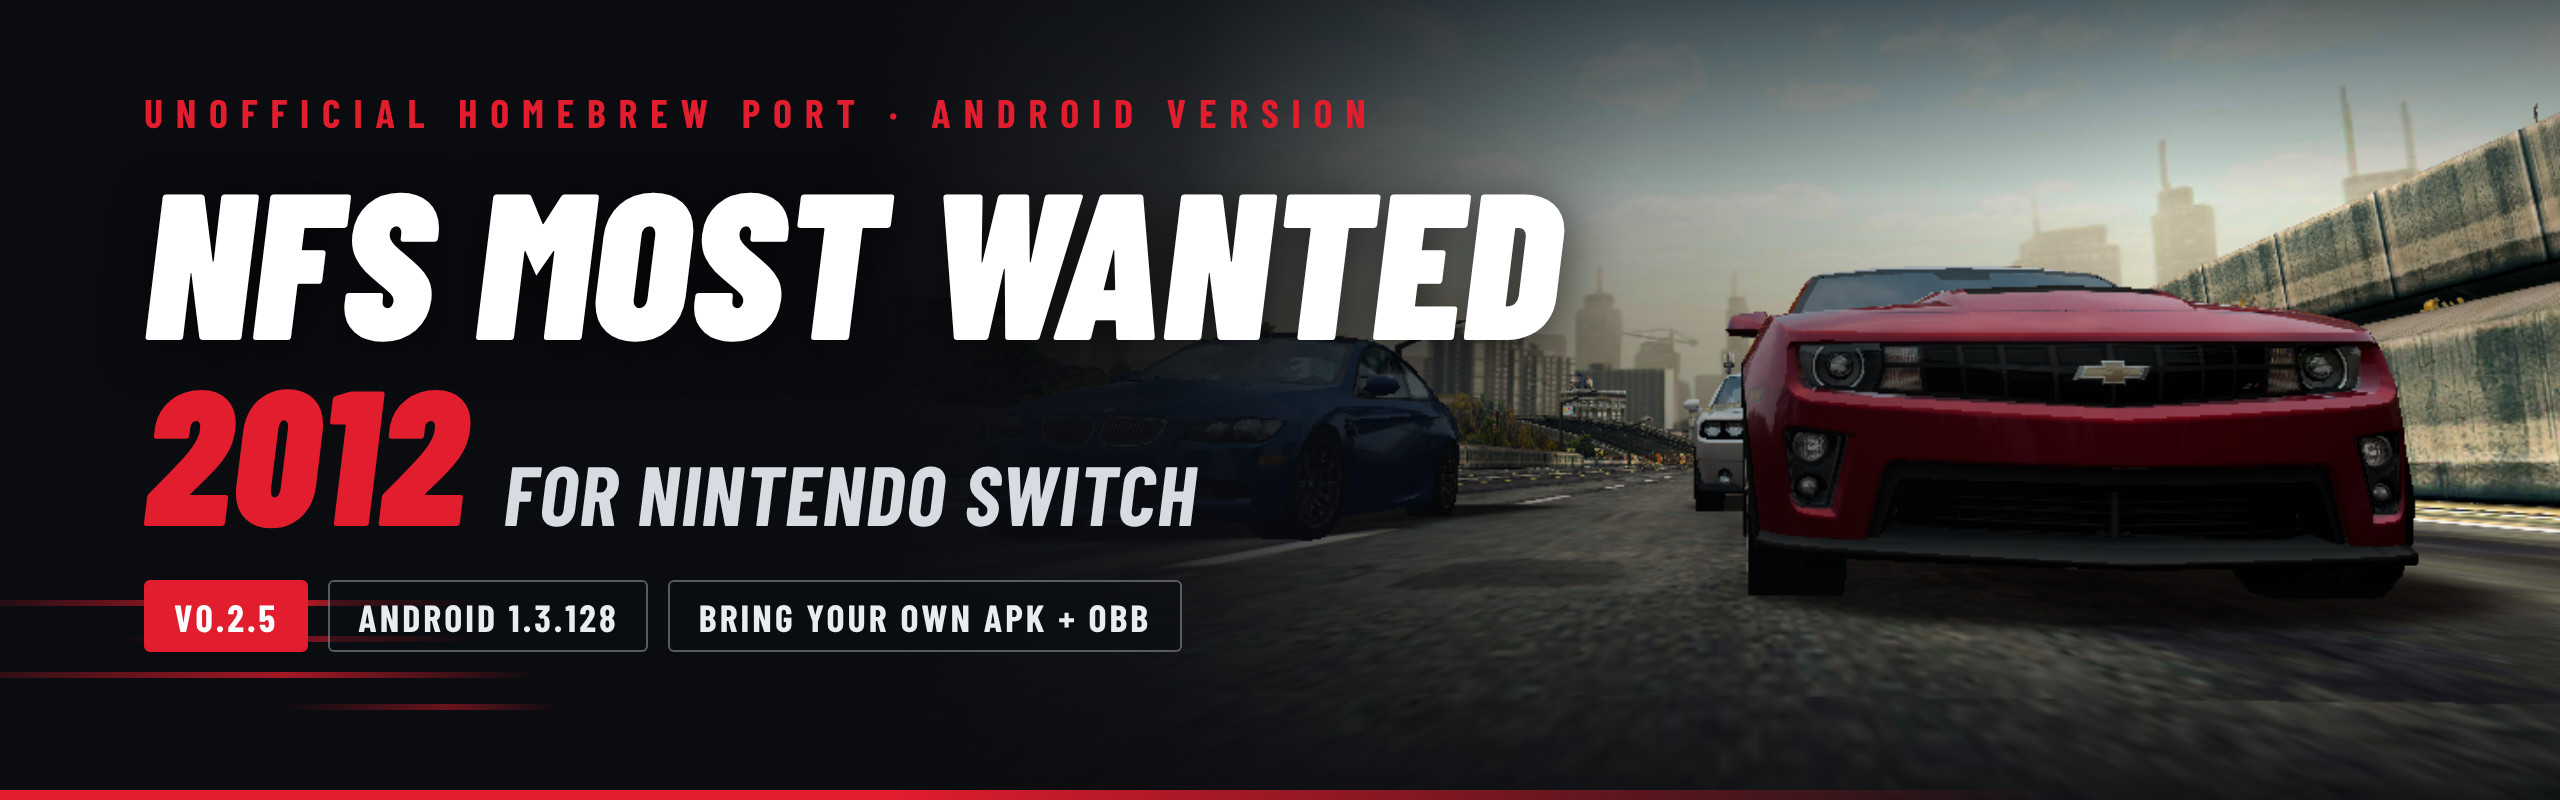
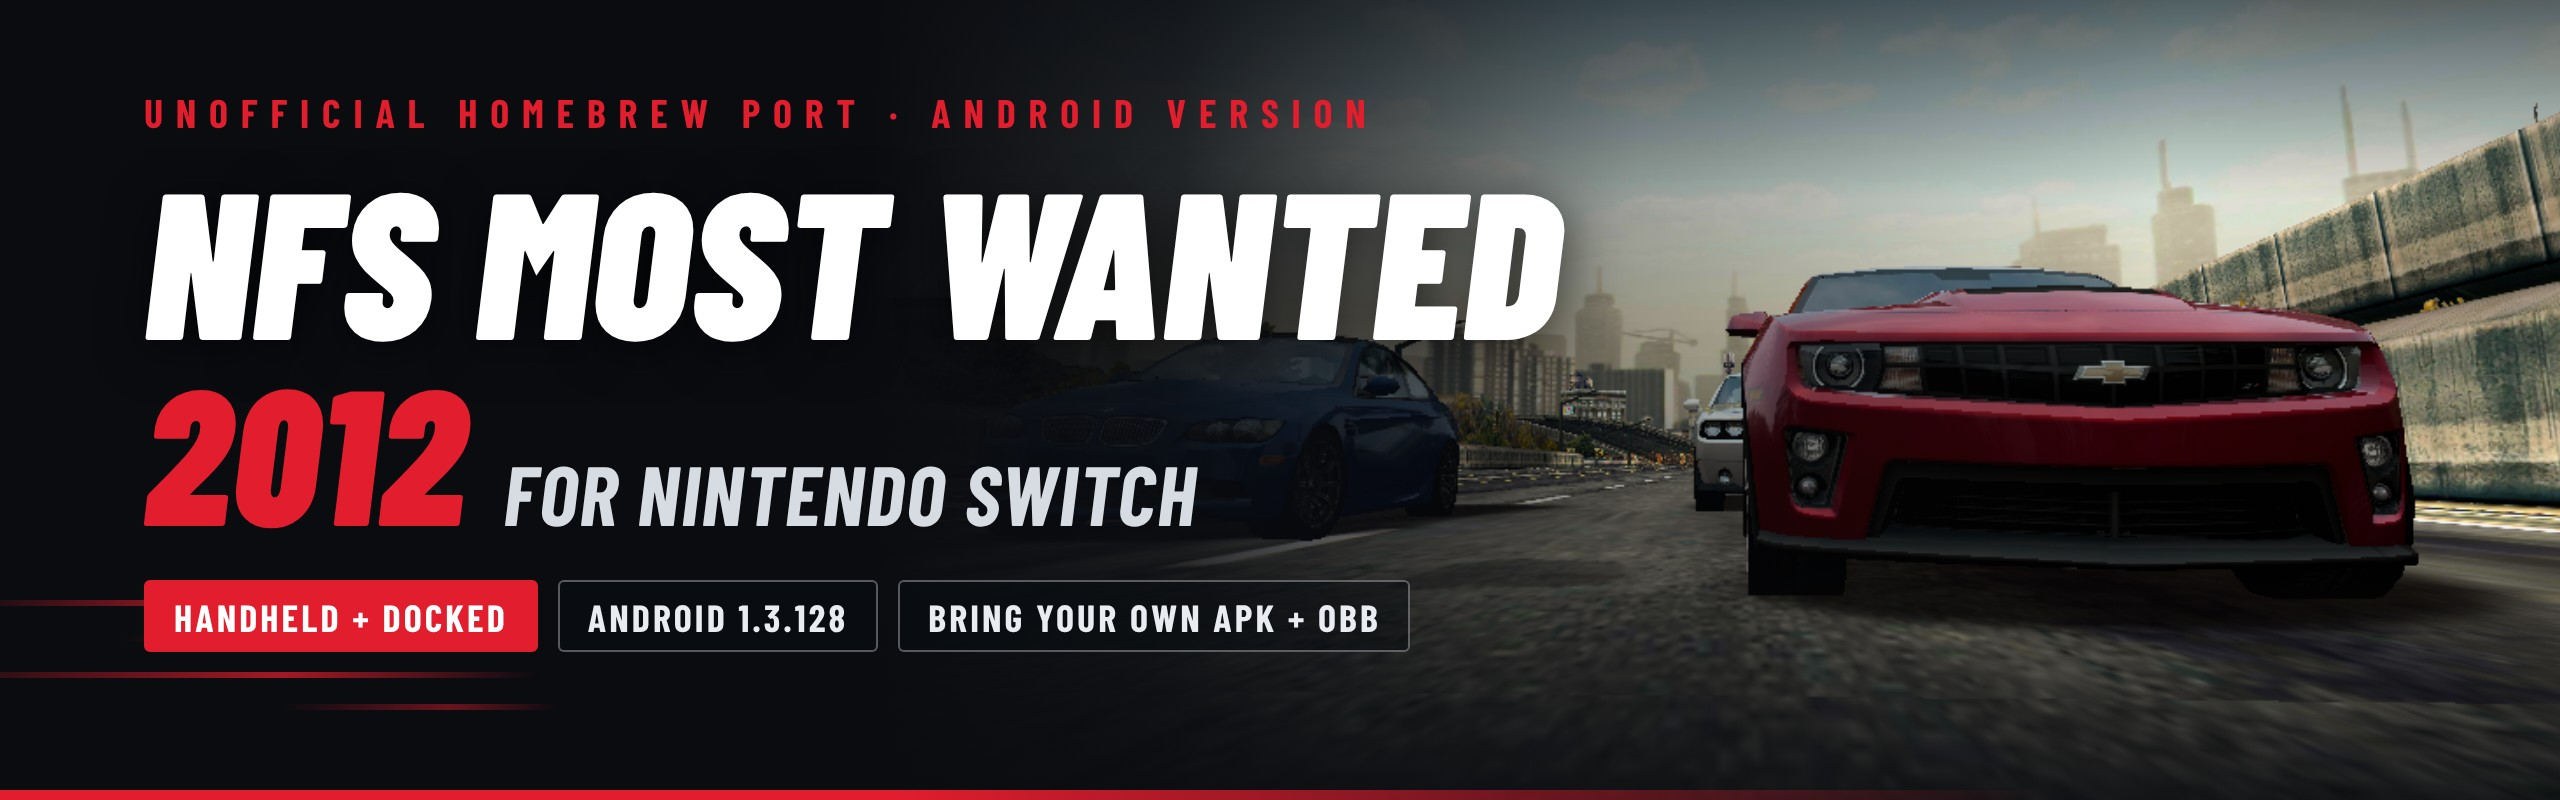
README: a race clip, more pictures, testers wanted; map + label centred
- Screenshots: a few seconds of a race (docs/images/race.gif, recorded
  frame by frame on the PC test build with a fixed 1/30 s clock; the
  caption says it is not the console's frame rate), a docked 1920x1080
  race, the map with + for EasyDrive, the port's debug menu.
- A "Help wanted: testers" section (docking, frame rate, reflections,
  languages) and the Switch models in "What you need". Both languages.
- The banner and social preview say "Handheld + docked" instead of an
  old version number.
- Map: the EasyDrive button's label, now "+", sits in the middle of the
  round button in the larger font (layouts entry 1855/1856).
- Desktop recording aids: NFSMW_RECORD_FPS (a clock that advances a
  fixed step per frame; not in the Switch build) and NFSMW_SHOT_RANGE.

Claude-Session: https://claude.ai/code/session_01WYCbVYmZAV1nnGGifVMDuu

Changed region(s): [[0.0625, 0.7188, 0.5625, 0.8438], [0.0625, 0.125, 0.3438, 0.1562], [0.375, 0.125, 0.5312, 0.1562]]

diff --git a/src/hle/libc_misc.cpp b/src/hle/libc_misc.cpp
@@ -6,6 +6,7 @@
 #include <algorithm>
 #include <atomic>
 #include <chrono>
+#include <cstdlib>
 #include <ctime>
 #include <map>
 #include <mutex>
@@ -23,7 +24,40 @@ using mem::ptr;
 using mem::str;
 
 // ---- time -------------------------------------------------------------------
+// Desktop recording aid: NFSMW_RECORD_FPS=<n> gives the game a clock that
+// advances by exactly 1/n s per frame (hle::record_clock_frame), so that
+// frames captured one by one play back smoothly at n fps whatever the PC's
+// speed. Not in the Switch build.
+#if !defined(__SWITCH__)
+const long long g_record_step_ns = [] {
+    const char* e = std::getenv("NFSMW_RECORD_FPS");
+    return e && std::atoi(e) > 0 ? 1000000000ll / std::atoi(e) : 0ll;
+}();
+std::atomic<long long> g_record_ns{0};
+struct timespec g_record_base_mono, g_record_base_real;
+const bool g_record_init = [] {
+    ::clock_gettime(CLOCK_MONOTONIC, &g_record_base_mono);
+    ::clock_gettime(CLOCK_REALTIME, &g_record_base_real);
+    return true;
+}();
+struct timespec record_time(const struct timespec& base) {
+    const long long ns = (long long)base.tv_nsec + g_record_ns.load(std::memory_order_relaxed);
+    struct timespec t;
+    t.tv_sec = base.tv_sec + (time_t)(ns / 1000000000ll);
+    t.tv_nsec = (long)(ns % 1000000000ll);
+    return t;
+}
+#else
+constexpr long long g_record_step_ns = 0;
+#endif
 s32 h_time(u32 t) {
+#if !defined(__SWITCH__)
+    if (g_record_step_ns) {
+        s32 now = (s32)record_time(g_record_base_real).tv_sec;
+        if (t) mem::w32(t, (u32)now);
+        return now;
+    }
+#endif
     s32 now = (s32)std::time(nullptr);
     if (t) mem::w32(t, (u32)now);
     return now;
@@ -31,6 +65,12 @@ s32 h_time(u32 t) {
 int h_gettimeofday(u32 tv, u32 tz) {
     struct timeval h;
     ::gettimeofday(&h, nullptr);
+#if !defined(__SWITCH__)
+    if (g_record_step_ns) {
+        const struct timespec r = record_time(g_record_base_real);
+        h.tv_sec = r.tv_sec, h.tv_usec = r.tv_nsec / 1000;
+    }
+#endif
     if (tv) {
         mem::w32(tv, (u32)h.tv_sec);
         mem::w32(tv + 4, (u32)h.tv_usec);
@@ -47,6 +87,9 @@ int h_clock_gettime(int clk, u32 ts) {
         LOGI("clock_gettime: game uses clock id %d (lr %s)", clk, elf::describe(cpu::current().regs()[14]).c_str());
     struct timespec h;
     if (::clock_gettime(clk, &h) < 0) ::clock_gettime(CLOCK_MONOTONIC, &h);
+#if !defined(__SWITCH__)
+    if (g_record_step_ns) h = record_time(clk == CLOCK_REALTIME ? g_record_base_real : g_record_base_mono);
+#endif
     mem::w32(ts, (u32)h.tv_sec);
     mem::w32(ts + 4, (u32)h.tv_nsec);
     return 0;
@@ -544,6 +587,12 @@ void register_libc_misc() {
     // setjmp family lives in the ARM runtime blob
     for (const char* n : {"setjmp", "_setjmp", "sigsetjmp"}) thunks::add_data(n, mem::RT_SETJMP);
     for (const char* n : {"longjmp", "_longjmp", "siglongjmp"}) thunks::add_data(n, mem::RT_LONGJMP);
+}
+
+void record_clock_frame() {
+#if !defined(__SWITCH__)
+    if (g_record_step_ns) g_record_ns.fetch_add(g_record_step_ns, std::memory_order_relaxed);
+#endif
 }
 
 }  // namespace hle

diff --git a/src/main.cpp b/src/main.cpp
@@ -416,7 +416,15 @@ int main(int argc, char** argv) {
             hle::glq::sync([&] { platform::gl_screenshot(shot); });
             LOGI("control: frame %d -> %s", frame, shot.c_str());
         }
-        if (S.screenshot_every && frame % S.screenshot_every == 0) {
+        // Desktop: NFSMW_SHOT_RANGE=<from>:<to> limits --screenshot-every to those frames.
+        static const std::pair<int, int> shot_range = [] {
+            int a = 0, b = 1 << 30;
+            if (const char* e = std::getenv("NFSMW_SHOT_RANGE")) std::sscanf(e, "%d:%d", &a, &b);
+            return std::make_pair(a, b);
+        }();
+        hle::record_clock_frame();
+        if (S.screenshot_every && frame % S.screenshot_every == 0 && frame >= shot_range.first &&
+            frame <= shot_range.second) {
             char path[256];
             std::snprintf(path, sizeof path, "%s/frame_%05d.png", S.screenshot_dir.c_str(), frame);
             hle::glq::sync([&] { platform::gl_screenshot(path); });

diff --git a/src/game/obb_patch.cpp b/src/game/obb_patch.cpp
@@ -260,6 +260,12 @@ std::vector<Edit> layout_edits() {
     e.push_back({14827, 2, 2, kGuideLeft2, kGuideLeft});
     move_rect(e, 14757, -129, 76, -129, 76, -12, -66, -12, -66);
     e.push_back({14758, 2, 4, kHalignRight, kHalignCentre});
+    // The map's EasyDrive button: its label, now "+" instead of "START", in
+    // the larger font and moved right, to the middle of the round button
+    // ("START" filled it from its left edge).
+    constexpr u32 kFontBlack8 = 321, kFontBlack12 = 146;  // string ids: mw_black_8 / _12
+    move_rect(e, 1855, 6, 18, 39, 28, 19, 18, 52, 28);
+    e.push_back({1856, 10, 2, kFontBlack8, kFontBlack12});
     return e;
 }
 

diff --git a/src/hle/hle.h b/src/hle/hle.h
@@ -59,6 +59,8 @@ void gl_set_scene_scale(float s);
 // The real screen's size when it differs from the game's (docked / undocked
 // while playing): everything the game draws is scaled to it.
 void gl_set_output_size(int w, int h);
+// Desktop recording aid (NFSMW_RECORD_FPS, see libc_misc.cpp): once per frame.
+void record_clock_frame();
 float gl_output_scale();  // real screen / game screen (1 = the size the game started with)
 // Replace part of a texture with RGBA pixels (bottom row first, as GL reads
 // them); the texture bound before stays bound. Copies the pixels; call from

diff --git a/README.es.md b/README.es.md
@@ -44,6 +44,13 @@ en una carpeta y corre por Fairhaven, en modo portátil o en el dock.
 
 ## Capturas
 
+<p align="center">
+  <img src="docs/images/race.gif" alt="Unos segundos de una carrera: adelantando rumbo al primer lugar" width="720">
+</p>
+<p align="center"><sub>Unos segundos de una carrera, grabados cuadro por cuadro con la versión de prueba para PC
+del port, a la resolución portátil de la Switch. Muestra cómo se ve el juego, no los FPS de la
+consola.</sub></p>
+
 <table>
   <tr>
     <td width="50%"><img src="docs/images/screenshots/race-intro.jpg" alt="La presentación de una carrera"></td>
@@ -54,26 +61,35 @@ en una carpeta y corre por Fairhaven, en modo portátil o en el dock.
     <td align="center"><sub>Corriendo por Fairhaven con el control</sub></td>
   </tr>
   <tr>
-    <td><img src="docs/images/screenshots/map.jpg" alt="El mapa con el resaltado del control sobre un evento"></td>
+    <td><img src="docs/images/screenshots/race-docked-1080p.jpg" alt="Una carrera a 1920x1080, en el dock"></td>
+    <td><img src="docs/images/screenshots/map.jpg" alt="El mapa con el resaltado del control sobre un evento y + para EasyDrive"></td>
+  </tr>
+  <tr>
+    <td align="center"><sub>En el dock: la carrera a 1920×1080</sub></td>
+    <td align="center"><sub>El mapa: todos los menús funcionan con la cruceta, y + empieza el siguiente evento</sub></td>
+  </tr>
+  <tr>
     <td><img src="docs/images/screenshots/garage.jpg" alt="El garaje"></td>
-  </tr>
-  <tr>
-    <td align="center"><sub>Todos los menús funcionan con la cruceta, con un resaltado al estilo del juego</sub></td>
-    <td align="center"><sub>El garaje, con los botones indicados en pantalla</sub></td>
-  </tr>
-  <tr>
     <td><img src="docs/images/screenshots/showroom.jpg" alt="Un auto en la sala de exhibición 3D"></td>
-    <td><img src="docs/images/screenshots/pause-menu.jpg" alt="El menú de pausa durante una carrera"></td>
   </tr>
   <tr>
+    <td align="center"><sub>El garaje, con los botones indicados en pantalla</sub></td>
     <td align="center"><sub>La sala de exhibición de autos en 3D</sub></td>
+  </tr>
+  <tr>
+    <td><img src="docs/images/screenshots/pause-menu.jpg" alt="El menú de pausa durante una carrera"></td>
+    <td><img src="docs/images/screenshots/debug-menu.jpg" alt="El menú de depuración del port sobre el mapa"></td>
+  </tr>
+  <tr>
     <td align="center"><sub>El menú de pausa, en plena carrera</sub></td>
+    <td align="center"><sub>El menú de depuración del port (ZL + ZR + Menos): FPS, VSync, resolución 3D, relojes, sonido</sub></td>
   </tr>
 </table>
 
-<sub>Capturadas con la versión de prueba para PC del port, que ejecuta el mismo código del juego a la
-resolución portátil de la Switch (1280×720). El panel de la captura de carrera es el tutorial del
-propio juego para manejar con control.</sub>
+<sub>Capturadas con la versión de prueba para PC del port, que ejecuta el mismo código del juego a
+las resoluciones de la Switch (1280×720 en modo portátil, 1920×1080 en el dock). El panel de las
+capturas de carrera es el tutorial del propio juego para manejar con control. Más imágenes: las
+[páginas de controles](#controles).</sub>
 
 ## Características
 
@@ -112,7 +128,7 @@ propio juego para manejar con control.</sub>
 
 | | Qué |
 |---|---|
-| **Consola** | Una Nintendo Switch con [Atmosphère](https://github.com/Atmosphere-NX/Atmosphere) y el Homebrew Menu. Usa emuMMC y guarda un respaldo de tu tarjeta SD. |
+| **Consola** | Una Nintendo Switch, Switch OLED o Switch Lite con [Atmosphère](https://github.com/Atmosphere-NX/Atmosphere) y el Homebrew Menu. Usa emuMMC y guarda un respaldo de tu tarjeta SD. |
 | **Juego** | Tu propio *Need for Speed Most Wanted* para Android, versión **1.3.128**: el APK con la versión de 32 bits (`lib/armeabi-v7a`) y el OBB `main.1003128.com.ea.games.nfs13_row.obb` (unos 650 MB). También sirve un solo archivo `.xapk` con los dos. |
 | **Tarjeta SD** | Alrededor de 1 GB libre. |
 | **PC** | No hace falta. |
@@ -259,6 +275,21 @@ recta; unos 30° de inclinación es el giro máximo. Todos los botones siguen fu
   siguientes no lo han hecho en las pruebas hasta ahora).
 
 En el [registro de cambios](CHANGELOG.md) (en inglés) está lo que cambió en cada versión.
+
+## Se buscan testers
+
+El port se prueba en una versión para PC que ejecuta el mismo código del juego, y en algunas
+consolas. Los reportes de más consolas son los que más ayudan, en español o en inglés, con el
+`log.txt` de la carpeta del port:
+
+| Qué | Cómo ayudar |
+|---|---|
+| 🔌 **Poner y sacar del dock mientras juegas** (nuevo en la 0.3.0) | En una Switch o Switch OLED, pon la consola en el dock y sácala durante una carrera y en los menús. ¿La imagen se ve bien? |
+| 🏎 **FPS** | Activa el contador de FPS en el menú de depuración (ZL + ZR + Menos) y juega algunas carreras. Las líneas `perf:` de `log.txt` dicen qué limita los FPS. |
+| 🪟 **Reflejos** | Si las ventanas de los edificios se ven mal en tu consola, una foto ayuda. |
+| 🌍 **Idiomas** | Si un texto todavía dice MOGA, o el + y el − se ven mal en tu idioma, una captura ayuda. |
+
+Abre un [issue](../../issues/new/choose): el formulario pide todo lo necesario.
 
 ## Preguntas frecuentes
 

diff --git a/README.md b/README.md
@@ -42,6 +42,12 @@ folder, and race through Fairhaven, handheld or docked.
 
 ## Screenshots
 
+<p align="center">
+  <img src="docs/images/race.gif" alt="A few seconds of a race: overtaking on the way to first place" width="720">
+</p>
+<p align="center"><sub>A few seconds of a race, recorded frame by frame on the port's PC test build at the
+Switch's handheld resolution. It shows how the game looks, not the console's frame rate.</sub></p>
+
 <table>
   <tr>
     <td width="50%"><img src="docs/images/screenshots/race-intro.jpg" alt="Race intro cinematic"></td>
@@ -52,25 +58,34 @@ folder, and race through Fairhaven, handheld or docked.
     <td align="center"><sub>Racing through Fairhaven with the controller</sub></td>
   </tr>
   <tr>
-    <td><img src="docs/images/screenshots/map.jpg" alt="The map with the controller highlight on an event"></td>
+    <td><img src="docs/images/screenshots/race-docked-1080p.jpg" alt="A race at 1920x1080, docked"></td>
+    <td><img src="docs/images/screenshots/map.jpg" alt="The map with the controller highlight on an event and + for EasyDrive"></td>
+  </tr>
+  <tr>
+    <td align="center"><sub>Docked: the race at 1920×1080</sub></td>
+    <td align="center"><sub>The map: every menu works with the D-pad, and + starts the next event</sub></td>
+  </tr>
+  <tr>
     <td><img src="docs/images/screenshots/garage.jpg" alt="The garage"></td>
-  </tr>
-  <tr>
-    <td align="center"><sub>Every menu works with the D-pad: the highlight follows the game's style</sub></td>
-    <td align="center"><sub>The garage, with on-screen button hints</sub></td>
-  </tr>
-  <tr>
     <td><img src="docs/images/screenshots/showroom.jpg" alt="A car in the 3D showroom"></td>
-    <td><img src="docs/images/screenshots/pause-menu.jpg" alt="The pause menu during a race"></td>
   </tr>
   <tr>
+    <td align="center"><sub>The garage, with on-screen button hints</sub></td>
     <td align="center"><sub>The 3D car showroom</sub></td>
+  </tr>
+  <tr>
+    <td><img src="docs/images/screenshots/pause-menu.jpg" alt="The pause menu during a race"></td>
+    <td><img src="docs/images/screenshots/debug-menu.jpg" alt="The port's debug menu over the map"></td>
+  </tr>
+  <tr>
     <td align="center"><sub>The pause menu, mid-race</sub></td>
+    <td align="center"><sub>The port's debug menu (ZL + ZR + Minus): frame rate, VSync, 3D resolution, clocks, sound</sub></td>
   </tr>
 </table>
 
-<sub>Captured with the port's PC test build, which runs the same game code at the Switch's handheld
-resolution (1280×720). The panel in the race shot is the game's own tutorial for controller steering.</sub>
+<sub>Captured with the port's PC test build, which runs the same game code at the Switch's
+resolutions (1280×720 handheld, 1920×1080 docked). The panel in the race shots is the game's own
+tutorial for controller steering. More pictures: the [controls pages](#controls).</sub>
 
 ## Features
 
@@ -104,7 +119,7 @@ resolution (1280×720). The panel in the race shot is the game's own tutorial fo
 
 | | What |
 |---|---|
-| **Console** | A Nintendo Switch running [Atmosphère](https://github.com/Atmosphere-NX/Atmosphere) with the Homebrew Menu. Use emuMMC and keep a backup of your SD card. |
+| **Console** | A Nintendo Switch, Switch OLED or Switch Lite running [Atmosphère](https://github.com/Atmosphere-NX/Atmosphere) with the Homebrew Menu. Use emuMMC and keep a backup of your SD card. |
 | **Game** | Your own *Need for Speed Most Wanted* for Android, version **1.3.128**: the APK with the 32-bit build (`lib/armeabi-v7a`) and the OBB `main.1003128.com.ea.games.nfs13_row.obb` (about 650 MB). One `.xapk` file with both works too. |
 | **SD card** | About 1 GB free. |
 | **PC** | Not needed. |
@@ -245,6 +260,20 @@ straight; about 30° of tilt is full lock. All buttons keep working.<br>
   done it in testing so far).
 
 See the [changelog](CHANGELOG.md) for what changed in each version.
+
+## Help wanted: testers
+
+The port is tested on a PC build that runs the same game code, and on a few consoles. Reports from
+more consoles help the most, in English or Spanish, with `log.txt` from the port's folder:
+
+| What | How to help |
+|---|---|
+| 🔌 **Docking while playing** (new in 0.3.0) | On a Switch or Switch OLED, put the console in the dock and take it out during a race and in the menus. Does the picture stay right? |
+| 🏎 **Frame rate** | Turn on the frame-rate counter in the debug menu (ZL + ZR + Minus) and play a few races. The `perf:` lines in `log.txt` say what holds the frame rate back. |
+| 🪟 **Reflections** | If the building windows look wrong on your console, a photo helps. |
+| 🌍 **Languages** | If a text still says MOGA, or + / − look wrong in your language, a screenshot helps. |
+
+Open an [issue](../../issues/new/choose): the form asks for everything needed.
 
 ## FAQ
 

diff --git a/docs/TECHNICAL.md b/docs/TECHNICAL.md
@@ -370,12 +370,14 @@ the Switch's buttons:
   with a rectangle in layout units around the page's centre, a rotation and a content such as a
   `Text` or a `SubLayout`; each line is a sublayout, `options_help_guide_left`/`_left2`/`_right`/
   `_right2`, made of a stretched straight piece and a fixed 40 × 20 bend whose end is a corner of
-  the rectangle). The port moves 23 entries of the two pages, checking every old value first:
+  the rectangle). The port changes 24 entries, checking every old value first:
   on the game page the drift line ends on A, and the pause callout moves above the picture with a
   line down to +; on the menu page everything moves 20 units down (as on the game page), the
   EASYDRIVE callout moves above the picture with a line down to +, the Origin callout (EA's
   online account) moves off the page, and the face buttons' lines keep their places while their
-  texts trade (the line to the top button now says what X does, and so on).
+  texts trade (the line to the top button now says what X does, and so on). On the map, the
+  EasyDrive button's label (now "+" instead of "START") moves to the middle of the round button,
+  in the larger font.
 
 Both can be turned off for comparisons: `NFSMW_NO_OBB_PATCH=1` (texts and lines) and
 `NFSMW_NO_ART_PATCH=1` (pictures). `NFSMW_OBB_PATCH_DUMP=1` logs every text changed.

diff --git a/docs/BUILDING.md b/docs/BUILDING.md
@@ -61,7 +61,9 @@ own debug AI driver, so races drive themselves during automated tests.
 `NFSMW_TEST_DOCK="600:1920x1080,1800:1280x720"` changes the display size at those frames, as
 docking and undocking do. `NFSMW_NO_OBB_PATCH=1` and `NFSMW_NO_ART_PATCH=1` leave the game's texts
 and layouts, and its controls picture, as they are (MOGA); `NFSMW_OBB_PATCH_DUMP=1` logs every text
-changed. The controls pages' pictures are drawn by `tools/make_controller_art.py` (Pillow), which
+changed. For smooth recordings, `NFSMW_RECORD_FPS=30` gives the game a clock that advances 1/30 s
+per frame whatever the PC's speed, and `NFSMW_SHOT_RANGE=<from>:<to>` limits `--screenshot-every`
+to those frames (the race clip in the README: `--screenshot-every 1`). The controls pages' pictures are drawn by `tools/make_controller_art.py` (Pillow), which
 writes `src/game/controller_art_images.inc`; `--preview DIR` also saves them as PNG files. `NFSMW_TEST_SLOT_NULL=1` checks the 0.3.0 game fix for
 the per-frame value store: about 900 frames in, it calls that function with a slot taken away
 (with `NFSMW_NO_SLOT_FIX=1` as well, the game crashes there, as it did before the fix).

diff --git a/CHANGELOG.md b/CHANGELOG.md
@@ -19,7 +19,7 @@ All notable changes to the port. The release zip's `README.txt` carries the same
   say "Switch", + and − ("SWITCH GAME CONTROLS", "Tap the + button to PAUSE"). The port changes
   the game's text tables in memory as the game reads them, one text at a time (the game shares
   words such as "START" between texts; only the controller ones change); the OBB on your SD card
-  is not touched.
+  is not touched. On the map, the EasyDrive button shows a + in its middle.
 - **New controller pictures on the controls pages.** The drawing of the MOGA gamepad is replaced
   by two drawings of the port's own, in the game's style: a handheld console in handheld mode and
   a gamepad when docked; the picture changes by itself when you dock or undock. The buttons are
